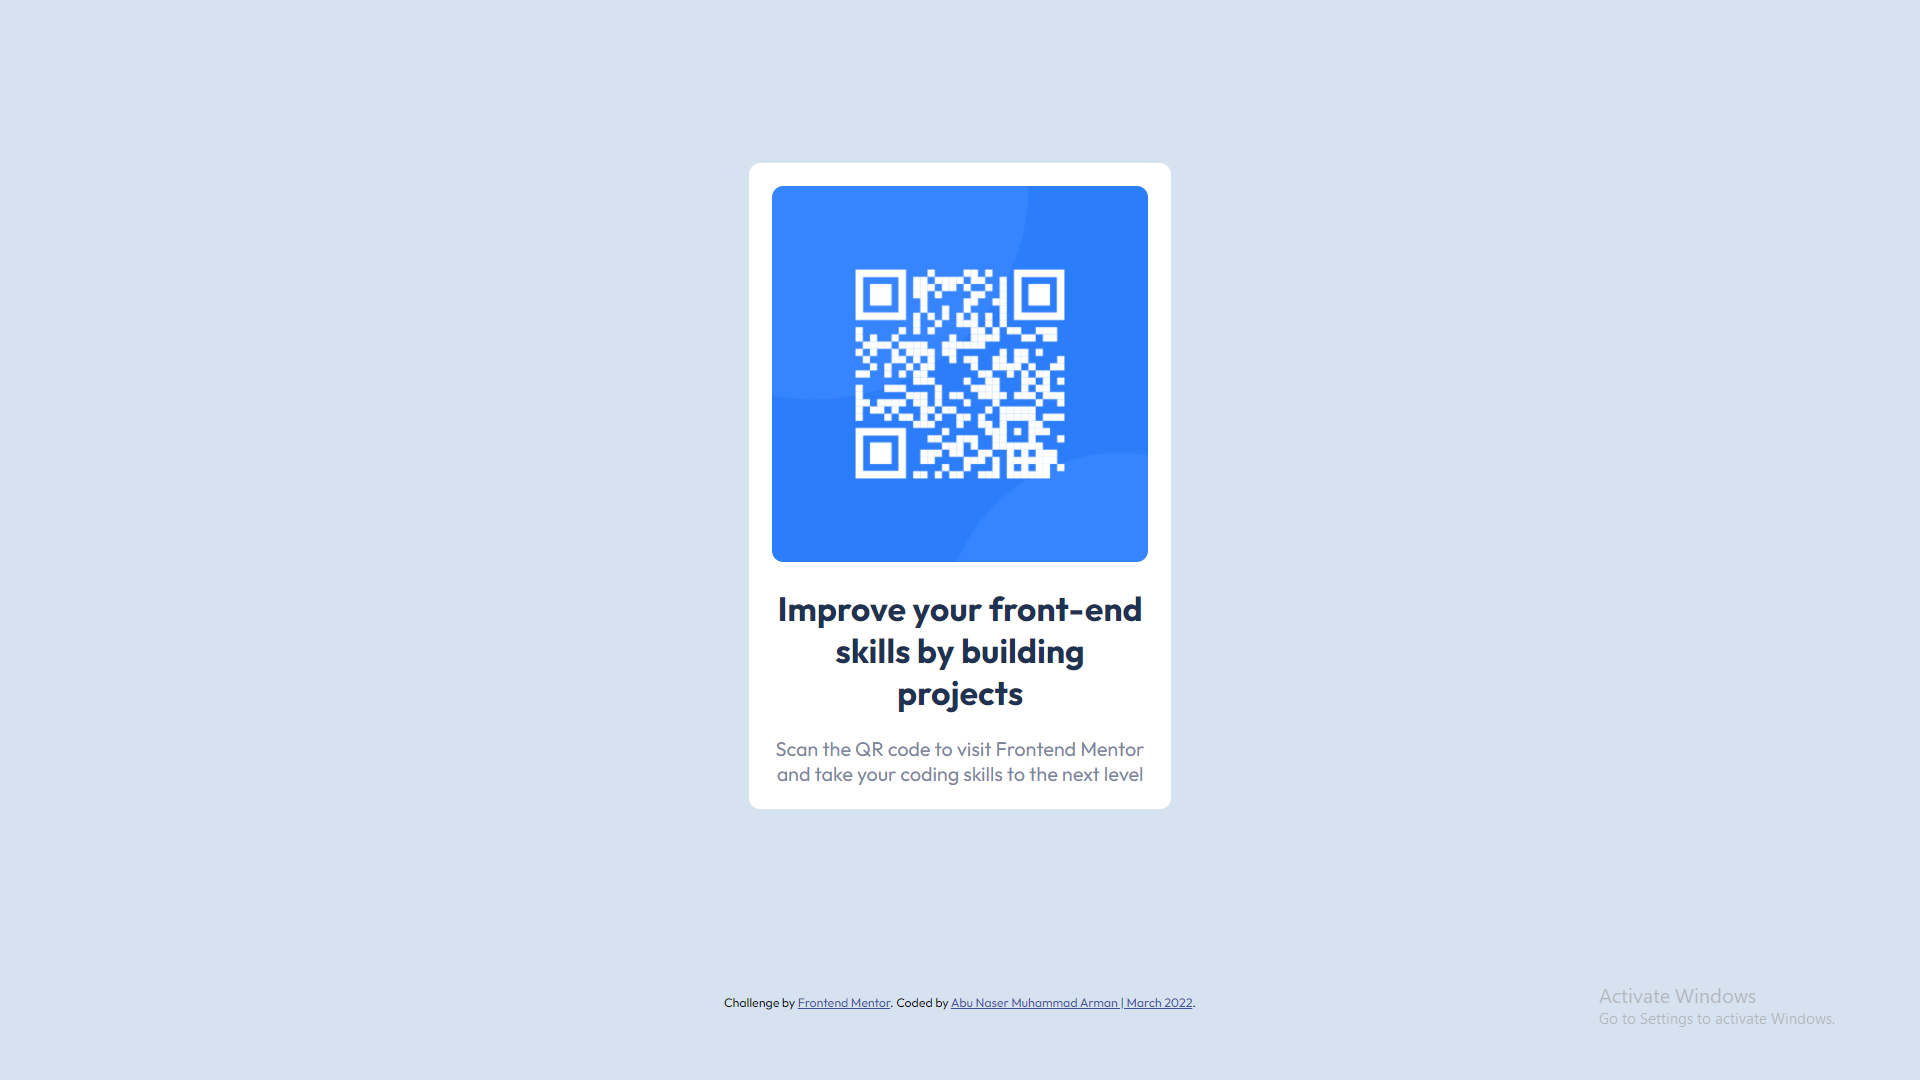
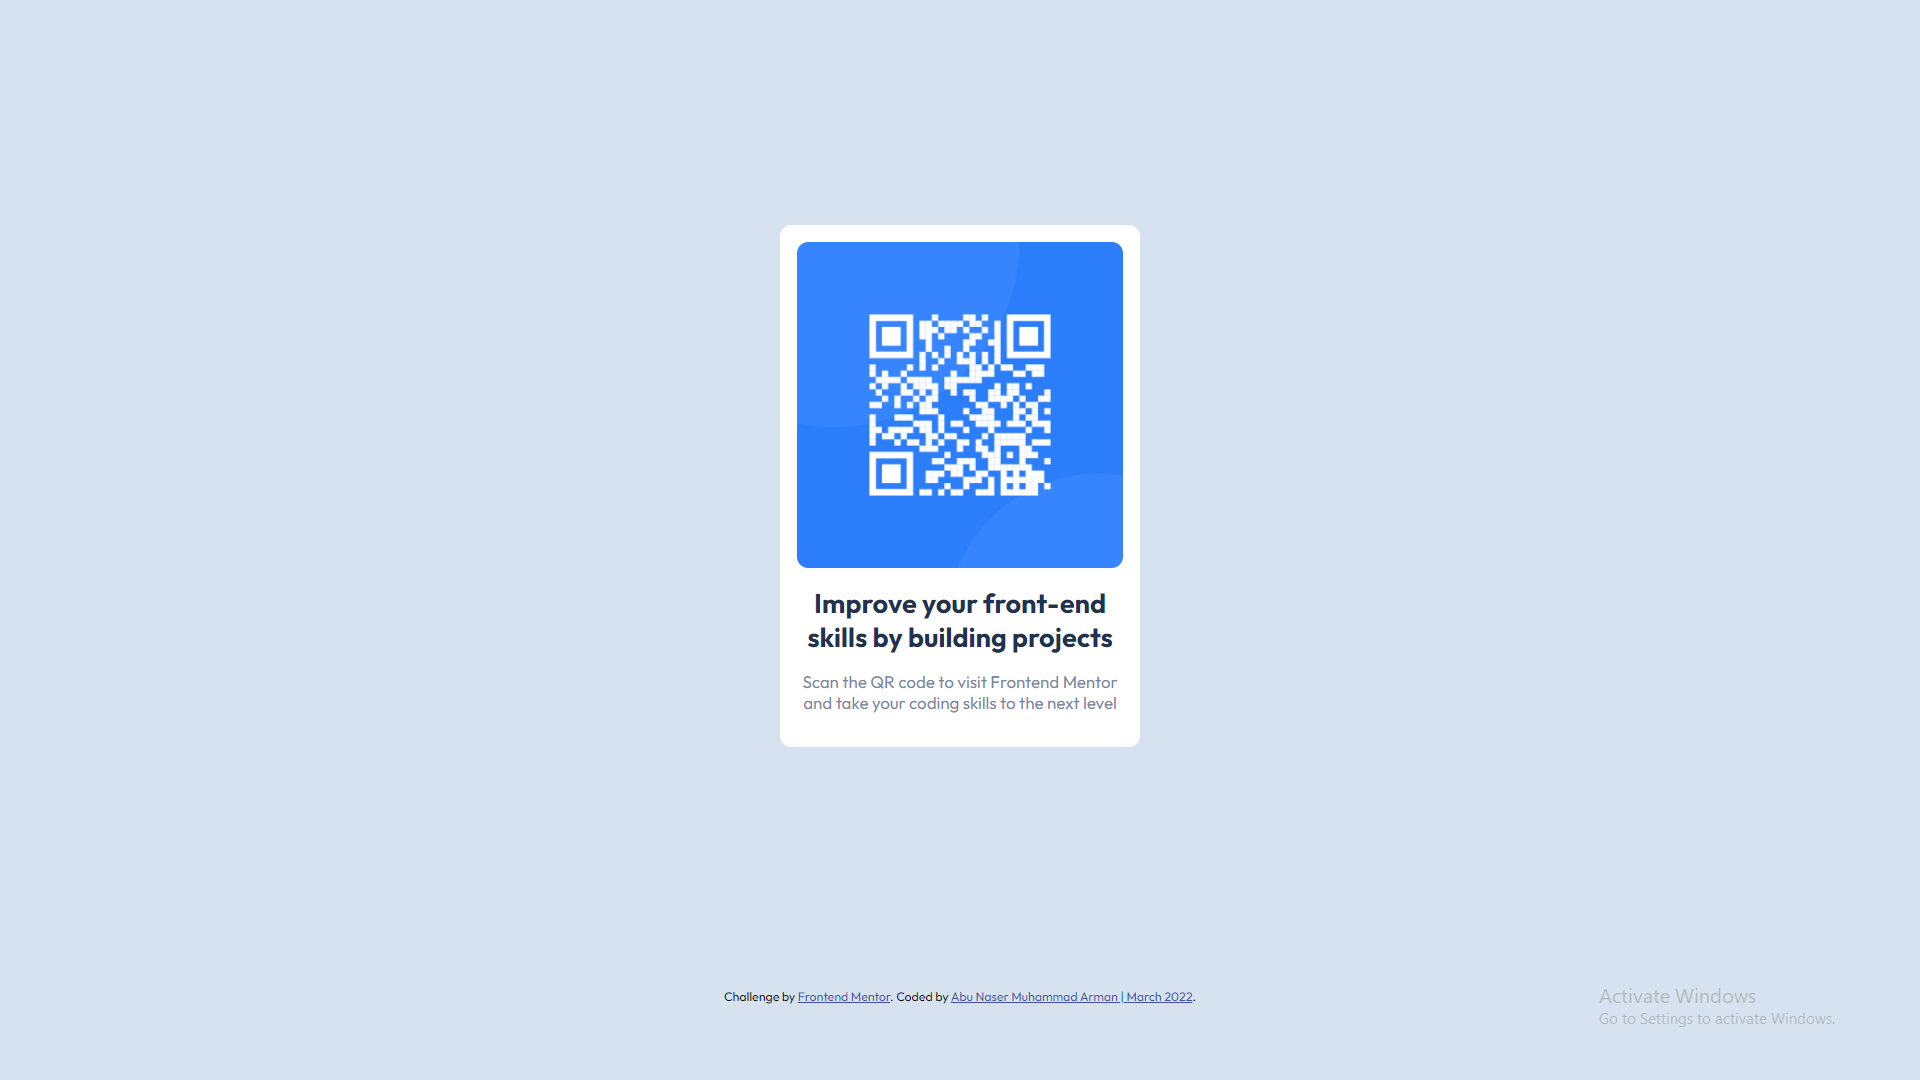
Added solution's link to the readme file
Also changed h3 into h2 because of accessibility issue

Changed region(s): [[0.375, 0.1528, 0.625, 0.7639], [0.375, 0.9167, 0.625, 0.9472]]

diff --git a/main.css b/main.css
@@ -8,13 +8,12 @@
   --color-lightGray : #d6e2f0;
   --color-grayishBlue : #7b879d;
   --color-darkBlue : #1f3251;
-  --padding-default : 2rem;
+  --padding-default : 1.5rem;
   --margin-default: calc(var(--padding-default) * 1);
   --borderRadius-default : 10px; 
 }
 
 body {
-  font-size: 1.5rem; /* 15px, as mentioned in the style guide */
   line-height: 1.25;
   background-color: var(--color-lightGray);
 }
@@ -28,7 +27,7 @@ main {
 }
 
 .card {
-  width: 375px;
+  width: 320px;
   height: 100%;
   background-color: var(--color-white);
   padding: var(--padding-default);
@@ -49,12 +48,18 @@ main {
   margin-top: var(--margin-default);  /* Applies margin to all elements of the wrapper */
 }
 
-.wrapper-text h1 {
+.wrapper-text:last-child {
+  margin-bottom: var(--margin-default); /* Applies margin to the last element of the wrapper */
+}
+
+.wrapper-text .mainHeading {
+  font-size: 2.4rem;
   font-weight: 700;
   color: var(--color-darkBlue);
 }
 
-.wrapper-text h3 {
+.wrapper-text .subHeading {
+  font-size: 1.5rem;
   font-weight: 400;
   color: var(--color-grayishBlue);
 }

diff --git a/index.html b/index.html
@@ -21,13 +21,13 @@
       <!-- Text Wrapper -->
       <div class="wrapper-text">
         <!-- Main Heading -->
-        <h1>
+        <h1 class="mainHeading">
           Improve your front-end skills by building projects
         </h1>
         <!-- Sub-Heading -->
-        <h3>
+        <h2 class="subHeading">
           Scan the QR code to visit Frontend Mentor and take your coding skills to the next level
-        </h3>
+        </h2>
       </div>
     </div>
   </main>

diff --git a/README.md b/README.md
@@ -23,6 +23,7 @@ I've embarked this challenge to brush-up my HTML & CSS skills.
 ### Links
 
 -  [Live Site](https://arman-anm.github.io/qr-code-component-main/)
+-  [Solution](https://www.frontendmentor.io/solutions/qr-code-component-challenge-using-html-and-css-STiO-43zm)
  
 ### Built with
 
